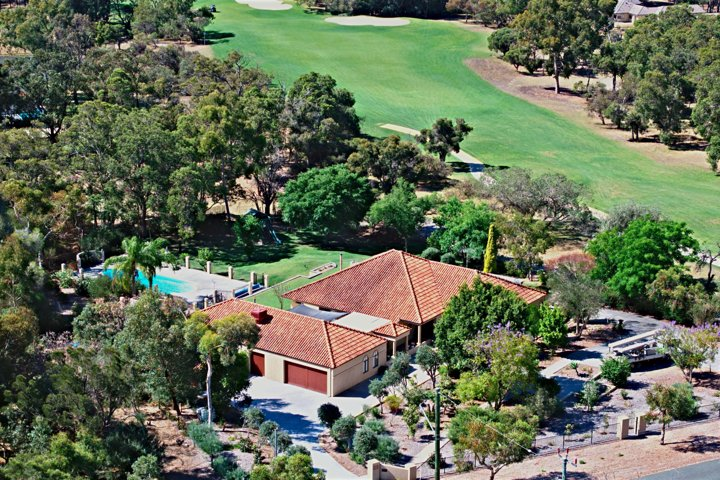
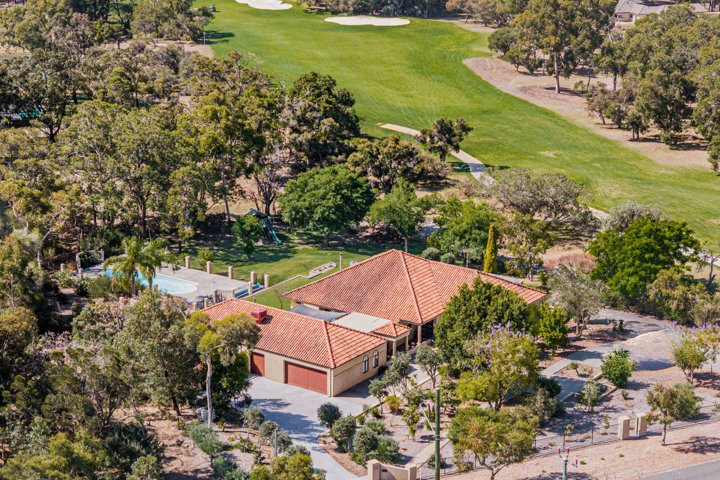
29 Hermitage reshoot: use editing team's revised edits, boundary refitted, no pins
Claude-Session: https://claude.ai/code/session_016Dz5F9bg2qyiekL9JCs1yM

diff --git a/aerials/03-nov-2026/index.html b/aerials/03-nov-2026/index.html
@@ -5,4 +5,4 @@ body{margin:0;background:var(--bg);color:var(--fg);font:15px/1.45 system-ui,-app
 header,section{max-width:1400px;margin:auto;padding:18px 16px}h1{font-size:20px;margin:0}h2{font-size:17px;margin:0}header p,section p{color:var(--mut);margin:4px 0 0}
 .ed{margin-left:10px;color:var(--acc);font-weight:600;text-decoration:none}a{color:var(--acc)}
 .chk{margin-top:10px}.chk summary{cursor:pointer;color:var(--mut);font-weight:600}.chk iframe{width:100%;height:420px;border:0;border-radius:6px;margin-top:6px;background:#111}.g{display:grid;grid-template-columns:repeat(auto-fill,minmax(280px,1fr));gap:8px;margin-top:10px}.g img{width:100%;display:block;border-radius:4px}</style></head>
-<body><header><h1>Drone edits — Tue 3 Nov 2026</h1><p>Tap a photo for full size. <b>Edit</b> opens the job in the <a href="/pins/">editor</a> with all its pins and settings.</p></header><section><h2>9 Flora Ave, Bayswater WA 6053</h2><p>Nic Pulvirenti · Professionals TWT · 10 photos (top-downs first) <a class="ed" href="/pins/?open=03-nov-2026/9_flora_ave">Edit</a><a class="ed" href="/lots/?img=/aerials/03-nov-2026/9_flora_ave/src/dji_fly_20261103_134902_0154_1793704059788_photo_r180.jpg&street=Flora%20Avenue" target="_blank">Lots</a><a class="ed" href="9_flora_ave/check.html" target="_blank">Check map</a></p><div class="g"><a href="9_flora_ave/9_flora_ave_potential_lots.jpg" target="_blank"><img loading="lazy" src="9_flora_ave/t/9_flora_ave_potential_lots.jpg" alt="Potential 2 lots"></a><a href="9_flora_ave/dji_fly_20261103_134902_0154_1793704059788_photo_r180.jpg?v=1793738739" target="_blank"><img loading="lazy" src="9_flora_ave/t/dji_fly_20261103_134902_0154_1793704059788_photo_r180.jpg?v=1793738739" alt=""></a><a href="9_flora_ave/dji_fly_20261103_134846_0153_1793704060458_photo.jpg?v=1793738739" target="_blank"><img loading="lazy" src="9_flora_ave/t/dji_fly_20261103_134846_0153_1793704060458_photo.jpg?v=1793738739" alt=""></a><a href="9_flora_ave/dji_fly_20261103_134944_0155_1793704059138_photo.jpg?v=1793738739" target="_blank"><img loading="lazy" src="9_flora_ave/t/dji_fly_20261103_134944_0155_1793704059138_photo.jpg?v=1793738739" alt=""></a><a href="9_flora_ave/dji_fly_20261103_135010_0156_1793704058395_photo.jpg?v=1793738739" target="_blank"><img loading="lazy" src="9_flora_ave/t/dji_fly_20261103_135010_0156_1793704058395_photo.jpg?v=1793738739" alt=""></a><a href="9_flora_ave/dji_fly_20261103_135034_0157_1793704057626_photo.jpg?v=1793738739" target="_blank"><img loading="lazy" src="9_flora_ave/t/dji_fly_20261103_135034_0157_1793704057626_photo.jpg?v=1793738739" alt=""></a><a href="9_flora_ave/dji_fly_20261103_135056_0158_1793704056929_photo.jpg?v=1793738739" target="_blank"><img loading="lazy" src="9_flora_ave/t/dji_fly_20261103_135056_0158_1793704056929_photo.jpg?v=1793738739" alt=""></a><a href="9_flora_ave/dji_fly_20261103_135130_0159_1793704056232_photo.jpg?v=1793738739" target="_blank"><img loading="lazy" src="9_flora_ave/t/dji_fly_20261103_135130_0159_1793704056232_photo.jpg?v=1793738739" alt=""></a><a href="9_flora_ave/dji_fly_20261103_135156_0160_1793704055554_photo.jpg?v=1793738739" target="_blank"><img loading="lazy" src="9_flora_ave/t/dji_fly_20261103_135156_0160_1793704055554_photo.jpg?v=1793738739" alt=""></a><a href="9_flora_ave/dji_fly_20261103_135226_0161_1793704054720_photo.jpg?v=1793738739" target="_blank"><img loading="lazy" src="9_flora_ave/t/dji_fly_20261103_135226_0161_1793704054720_photo.jpg?v=1793738739" alt=""></a><a href="9_flora_ave/dji_fly_20261103_135250_0162_1793704053535_photo.jpg?v=1793738739" target="_blank"><img loading="lazy" src="9_flora_ave/t/dji_fly_20261103_135250_0162_1793704053535_photo.jpg?v=1793738739" alt=""></a></div><details class="chk" open><summary>Quick check — boundary + 15 pinned places</summary><iframe loading="lazy" src="9_flora_ave/check.html?v=1793738740" title="Boundary and places check"></iframe></details></section><section><h2>SEND TO EDITOR — sun-facing aerials 0165/0168/0171/0172 have a white haze band on the horizon and the CBD towers in 0168 are ghosted · 1 Mills Ave, Bayswater WA 6053</h2><p>Nic Pulvirenti · Professionals TWT · 10 photos (top-downs first) <a class="ed" href="/pins/?open=03-nov-2026/1_mills_ave">Edit</a><a class="ed" href="/lots/?img=/aerials/03-nov-2026/1_mills_ave/src/dji_fly_20261103_172728_0163_1793704052722_photo_r270.jpg&street=Mills%20Avenue" target="_blank">Lots</a><a class="ed" href="1_mills_ave/check.html" target="_blank">Check map</a></p><div class="g"><a href="1_mills_ave/dji_fly_20261103_172728_0163_1793704052722_photo_r270.jpg?v=1793738746" target="_blank"><img loading="lazy" src="1_mills_ave/t/dji_fly_20261103_172728_0163_1793704052722_photo_r270.jpg?v=1793738746" alt=""></a><a href="1_mills_ave/dji_fly_20261103_172806_0164_1793704051892_photo_r180.jpg?v=1793738746" target="_blank"><img loading="lazy" src="1_mills_ave/t/dji_fly_20261103_172806_0164_1793704051892_photo_r180.jpg?v=1793738746" alt=""></a><a href="1_mills_ave/dji_fly_20261103_172846_0165_1793704051117_photo.jpg?v=1793738746" target="_blank"><img loading="lazy" src="1_mills_ave/t/dji_fly_20261103_172846_0165_1793704051117_photo.jpg?v=1793738746" alt=""></a><a href="1_mills_ave/dji_fly_20261103_172926_0166_1793704050054_photo.jpg?v=1793738746" target="_blank"><img loading="lazy" src="1_mills_ave/t/dji_fly_20261103_172926_0166_1793704050054_photo.jpg?v=1793738746" alt=""></a><a href="1_mills_ave/dji_fly_20261103_173000_0167_1793704048747_photo.jpg?v=1793738746" target="_blank"><img loading="lazy" src="1_mills_ave/t/dji_fly_20261103_173000_0167_1793704048747_photo.jpg?v=1793738746" alt=""></a><a href="1_mills_ave/dji_fly_20261103_173028_0168_1793704047325_photo.jpg?v=1793738746" target="_blank"><img loading="lazy" src="1_mills_ave/t/dji_fly_20261103_173028_0168_1793704047325_photo.jpg?v=1793738746" alt=""></a><a href="1_mills_ave/dji_fly_20261103_173056_0169_1793704045824_photo.jpg?v=1793738746" target="_blank"><img loading="lazy" src="1_mills_ave/t/dji_fly_20261103_173056_0169_1793704045824_photo.jpg?v=1793738746" alt=""></a><a href="1_mills_ave/dji_fly_20261103_173128_0170_1793704044668_photo.jpg?v=1793738746" target="_blank"><img loading="lazy" src="1_mills_ave/t/dji_fly_20261103_173128_0170_1793704044668_photo.jpg?v=1793738746" alt=""></a><a href="1_mills_ave/dji_fly_20261103_173156_0171_1793704043395_photo.jpg?v=1793738746" target="_blank"><img loading="lazy" src="1_mills_ave/t/dji_fly_20261103_173156_0171_1793704043395_photo.jpg?v=1793738746" alt=""></a><a href="1_mills_ave/dji_fly_20261103_173232_0172_1793704041907_photo.jpg?v=1793738746" target="_blank"><img loading="lazy" src="1_mills_ave/t/dji_fly_20261103_173232_0172_1793704041907_photo.jpg?v=1793738746" alt=""></a></div><details class="chk" open><summary>Quick check — boundary + 16 pinned places</summary><iframe loading="lazy" src="1_mills_ave/check.html?v=1793738748" title="Boundary and places check"></iframe></details></section><section><h2>SEND TO EDITOR — no lot boundary · 17 Titanium Blvd, Cockburn Central WA 6164</h2><p>Amelié Blanco Bernabeu · Raspa · 10 photos (top-downs first) <a class="ed" href="/pins/?open=03-nov-2026/17_titanium_blvd">Edit</a><a class="ed" href="/lots/?img=/aerials/03-nov-2026/17_titanium_blvd/src/dji_fly_20261103_114026_0971_1793704935082_photo_r90.jpg&street=Titanium%20Blvd" target="_blank">Lots</a><a class="ed" href="17_titanium_blvd/check.html" target="_blank">Check map</a></p><div class="g"><a href="17_titanium_blvd/dji_fly_20261103_114026_0971_1793704935082_photo_r90.jpg?v=1793738755" target="_blank"><img loading="lazy" src="17_titanium_blvd/t/dji_fly_20261103_114026_0971_1793704935082_photo_r90.jpg?v=1793738755" alt=""></a><a href="17_titanium_blvd/dji_fly_20261103_113914_0966_1793704941294_photo.jpg?v=1793738755" target="_blank"><img loading="lazy" src="17_titanium_blvd/t/dji_fly_20261103_113914_0966_1793704941294_photo.jpg?v=1793738755" alt=""></a><a href="17_titanium_blvd/dji_fly_20261103_114050_0972_1793704933836_photo.jpg?v=1793738755" target="_blank"><img loading="lazy" src="17_titanium_blvd/t/dji_fly_20261103_114050_0972_1793704933836_photo.jpg?v=1793738755" alt=""></a><a href="17_titanium_blvd/dji_fly_20261103_114104_0973_1793704932587_photo.jpg?v=1793738755" target="_blank"><img loading="lazy" src="17_titanium_blvd/t/dji_fly_20261103_114104_0973_1793704932587_photo.jpg?v=1793738755" alt=""></a><a href="17_titanium_blvd/dji_fly_20261103_114132_0974_1793704931230_photo.jpg?v=1793738755" target="_blank"><img loading="lazy" src="17_titanium_blvd/t/dji_fly_20261103_114132_0974_1793704931230_photo.jpg?v=1793738755" alt=""></a><a href="17_titanium_blvd/dji_fly_20261103_114226_0975_1793704929941_photo.jpg?v=1793738755" target="_blank"><img loading="lazy" src="17_titanium_blvd/t/dji_fly_20261103_114226_0975_1793704929941_photo.jpg?v=1793738755" alt=""></a><a href="17_titanium_blvd/dji_fly_20261103_114250_0976_1793704928621_photo.jpg?v=1793738755" target="_blank"><img loading="lazy" src="17_titanium_blvd/t/dji_fly_20261103_114250_0976_1793704928621_photo.jpg?v=1793738755" alt=""></a><a href="17_titanium_blvd/dji_fly_20261103_114306_0977_1793704927328_photo.jpg?v=1793738755" target="_blank"><img loading="lazy" src="17_titanium_blvd/t/dji_fly_20261103_114306_0977_1793704927328_photo.jpg?v=1793738755" alt=""></a><a href="17_titanium_blvd/dji_fly_20261103_114318_0978_1793704926019_photo.jpg?v=1793738755" target="_blank"><img loading="lazy" src="17_titanium_blvd/t/dji_fly_20261103_114318_0978_1793704926019_photo.jpg?v=1793738755" alt=""></a><a href="17_titanium_blvd/dji_fly_20261103_114330_0979_1793704924754_photo.jpg?v=1793738755" target="_blank"><img loading="lazy" src="17_titanium_blvd/t/dji_fly_20261103_114330_0979_1793704924754_photo.jpg?v=1793738755" alt=""></a></div><details class="chk" open><summary>Quick check — boundary + 15 pinned places</summary><iframe loading="lazy" src="17_titanium_blvd/check.html?v=1793738758" title="Boundary and places check"></iframe></details></section><section><h2>19 Joondanna Dr, Joondanna WA 6060</h2><p>Dante Holdsworth · Holdsworth · 10 photos (top-downs first) <a class="ed" href="/pins/?open=03-nov-2026/19_joondanna_dr">Edit</a><a class="ed" href="/lots/?img=/aerials/03-nov-2026/19_joondanna_dr/src/dji_fly_20261103_171736_0982_1793704919527_photo.jpg&street=Joondanna%20Drive" target="_blank">Lots</a><a class="ed" href="19_joondanna_dr/check.html" target="_blank">Check map</a></p><div class="g"><a href="19_joondanna_dr/dji_fly_20261103_171736_0982_1793704919527_photo.jpg?v=1793738765" target="_blank"><img loading="lazy" src="19_joondanna_dr/t/dji_fly_20261103_171736_0982_1793704919527_photo.jpg?v=1793738765" alt=""></a><a href="19_joondanna_dr/dji_fly_20261103_171724_0981_1793704921863_photo.jpg?v=1793738765" target="_blank"><img loading="lazy" src="19_joondanna_dr/t/dji_fly_20261103_171724_0981_1793704921863_photo.jpg?v=1793738765" alt=""></a><a href="19_joondanna_dr/dji_fly_20261103_171826_0983_1793704918083_photo.jpg?v=1793738765" target="_blank"><img loading="lazy" src="19_joondanna_dr/t/dji_fly_20261103_171826_0983_1793704918083_photo.jpg?v=1793738765" alt=""></a><a href="19_joondanna_dr/dji_fly_20261103_171840_0984_1793704916672_photo.jpg?v=1793738765" target="_blank"><img loading="lazy" src="19_joondanna_dr/t/dji_fly_20261103_171840_0984_1793704916672_photo.jpg?v=1793738765" alt=""></a><a href="19_joondanna_dr/dji_fly_20261103_171854_0985_1793704915183_photo.jpg?v=1793738765" target="_blank"><img loading="lazy" src="19_joondanna_dr/t/dji_fly_20261103_171854_0985_1793704915183_photo.jpg?v=1793738765" alt=""></a><a href="19_joondanna_dr/dji_fly_20261103_171906_0986_1793704913711_photo.jpg?v=1793738765" target="_blank"><img loading="lazy" src="19_joondanna_dr/t/dji_fly_20261103_171906_0986_1793704913711_photo.jpg?v=1793738765" alt=""></a><a href="19_joondanna_dr/dji_fly_20261103_171930_0987_1793704912295_photo.jpg?v=1793738765" target="_blank"><img loading="lazy" src="19_joondanna_dr/t/dji_fly_20261103_171930_0987_1793704912295_photo.jpg?v=1793738765" alt=""></a><a href="19_joondanna_dr/dji_fly_20261103_172004_0988_1793704910986_photo.jpg?v=1793738765" target="_blank"><img loading="lazy" src="19_joondanna_dr/t/dji_fly_20261103_172004_0988_1793704910986_photo.jpg?v=1793738765" alt=""></a><a href="19_joondanna_dr/dji_fly_20261103_172024_0989_1793704909586_photo.jpg?v=1793738765" target="_blank"><img loading="lazy" src="19_joondanna_dr/t/dji_fly_20261103_172024_0989_1793704909586_photo.jpg?v=1793738765" alt=""></a><a href="19_joondanna_dr/dji_fly_20261103_172042_0990_1793704908080_photo.jpg?v=1793738765" target="_blank"><img loading="lazy" src="19_joondanna_dr/t/dji_fly_20261103_172042_0990_1793704908080_photo.jpg?v=1793738765" alt=""></a></div><details class="chk" open><summary>Quick check — boundary + 19 pinned places</summary><iframe loading="lazy" src="19_joondanna_dr/check.html?v=1793738767" title="Boundary and places check"></iframe></details></section><section><h2>29 Hermitage Dr, The Vines WA 6069 — day reshoot 7 Nov 2026 (natural sky)</h2><p>Annique Woodford · Granger Clark · 5 photos (top-downs first) <a class="ed" href="/pins/?open=03-nov-2026/29_hermitage_dr">Edit</a><a class="ed" href="/lots/?img=/aerials/03-nov-2026/29_hermitage_dr/src/DJI_20261107175758_0060_D.jpg&street=Hermitage%20Drive" target="_blank">Lots</a><a class="ed" href="29_hermitage_dr/check.html" target="_blank">Check map</a></p><div class="g"><a href="29_hermitage_dr/DJI_20261107175758_0060_D.jpg?v=1794172109" target="_blank"><img loading="lazy" src="29_hermitage_dr/t/DJI_20261107175758_0060_D.jpg?v=1794172109" alt=""></a><a href="29_hermitage_dr/DJI_20261107175744_0059_D.jpg?v=1794172109" target="_blank"><img loading="lazy" src="29_hermitage_dr/t/DJI_20261107175744_0059_D.jpg?v=1794172109" alt=""></a><a href="29_hermitage_dr/DJI_20261107175429_0054_D.jpg?v=1794172109" target="_blank"><img loading="lazy" src="29_hermitage_dr/t/DJI_20261107175429_0054_D.jpg?v=1794172109" alt=""></a><a href="29_hermitage_dr/DJI_20261107175657_0057_D.jpg?v=1794172109" target="_blank"><img loading="lazy" src="29_hermitage_dr/t/DJI_20261107175657_0057_D.jpg?v=1794172109" alt=""></a><a href="29_hermitage_dr/DJI_20261107180236_0070_D.jpg?v=1794172109" target="_blank"><img loading="lazy" src="29_hermitage_dr/t/DJI_20261107180236_0070_D.jpg?v=1794172109" alt=""></a></div><details class="chk" open><summary>Quick check — boundary + 8 pinned places</summary><iframe loading="lazy" src="29_hermitage_dr/check.html?v=1793738770" title="Boundary and places check"></iframe></details></section><section><h2>SEND TO EDITOR — twilight frames · 29 Hermitage Dr, The Vines WA 6069</h2><p>Annique Woodford · Granger Clark · 2 photos <a class="ed" href="/pins/?open=03-nov-2026/29_hermitage_dr_twilight">Edit</a><a class="ed" href="/lots/?img=/aerials/03-nov-2026/29_hermitage_dr_twilight/src/DJI_20261103194003_0205_D.jpg&street=Hermitage%20Drive" target="_blank">Lots</a><a class="ed" href="29_hermitage_dr_twilight/check.html" target="_blank">Check map</a></p><div class="g"><a href="29_hermitage_dr_twilight/DJI_20261103194003_0205_D.jpg?v=1793738770" target="_blank"><img loading="lazy" src="29_hermitage_dr_twilight/t/DJI_20261103194003_0205_D.jpg?v=1793738770" alt=""></a><a href="29_hermitage_dr_twilight/DJI_20261103194018_0206_D.jpg?v=1793738770" target="_blank"><img loading="lazy" src="29_hermitage_dr_twilight/t/DJI_20261103194018_0206_D.jpg?v=1793738770" alt=""></a></div><details class="chk" open><summary>Quick check — boundary + 5 pinned places</summary><iframe loading="lazy" src="29_hermitage_dr_twilight/check.html?v=1793738771" title="Boundary and places check"></iframe></details></section><script src="../dl.js"></script></body></html>
+<body><header><h1>Drone edits — Tue 3 Nov 2026</h1><p>Tap a photo for full size. <b>Edit</b> opens the job in the <a href="/pins/">editor</a> with all its pins and settings.</p></header><section><h2>9 Flora Ave, Bayswater WA 6053</h2><p>Nic Pulvirenti · Professionals TWT · 10 photos (top-downs first) <a class="ed" href="/pins/?open=03-nov-2026/9_flora_ave">Edit</a><a class="ed" href="/lots/?img=/aerials/03-nov-2026/9_flora_ave/src/dji_fly_20261103_134902_0154_1793704059788_photo_r180.jpg&street=Flora%20Avenue" target="_blank">Lots</a><a class="ed" href="9_flora_ave/check.html" target="_blank">Check map</a></p><div class="g"><a href="9_flora_ave/9_flora_ave_potential_lots.jpg" target="_blank"><img loading="lazy" src="9_flora_ave/t/9_flora_ave_potential_lots.jpg" alt="Potential 2 lots"></a><a href="9_flora_ave/dji_fly_20261103_134902_0154_1793704059788_photo_r180.jpg?v=1793738739" target="_blank"><img loading="lazy" src="9_flora_ave/t/dji_fly_20261103_134902_0154_1793704059788_photo_r180.jpg?v=1793738739" alt=""></a><a href="9_flora_ave/dji_fly_20261103_134846_0153_1793704060458_photo.jpg?v=1793738739" target="_blank"><img loading="lazy" src="9_flora_ave/t/dji_fly_20261103_134846_0153_1793704060458_photo.jpg?v=1793738739" alt=""></a><a href="9_flora_ave/dji_fly_20261103_134944_0155_1793704059138_photo.jpg?v=1793738739" target="_blank"><img loading="lazy" src="9_flora_ave/t/dji_fly_20261103_134944_0155_1793704059138_photo.jpg?v=1793738739" alt=""></a><a href="9_flora_ave/dji_fly_20261103_135010_0156_1793704058395_photo.jpg?v=1793738739" target="_blank"><img loading="lazy" src="9_flora_ave/t/dji_fly_20261103_135010_0156_1793704058395_photo.jpg?v=1793738739" alt=""></a><a href="9_flora_ave/dji_fly_20261103_135034_0157_1793704057626_photo.jpg?v=1793738739" target="_blank"><img loading="lazy" src="9_flora_ave/t/dji_fly_20261103_135034_0157_1793704057626_photo.jpg?v=1793738739" alt=""></a><a href="9_flora_ave/dji_fly_20261103_135056_0158_1793704056929_photo.jpg?v=1793738739" target="_blank"><img loading="lazy" src="9_flora_ave/t/dji_fly_20261103_135056_0158_1793704056929_photo.jpg?v=1793738739" alt=""></a><a href="9_flora_ave/dji_fly_20261103_135130_0159_1793704056232_photo.jpg?v=1793738739" target="_blank"><img loading="lazy" src="9_flora_ave/t/dji_fly_20261103_135130_0159_1793704056232_photo.jpg?v=1793738739" alt=""></a><a href="9_flora_ave/dji_fly_20261103_135156_0160_1793704055554_photo.jpg?v=1793738739" target="_blank"><img loading="lazy" src="9_flora_ave/t/dji_fly_20261103_135156_0160_1793704055554_photo.jpg?v=1793738739" alt=""></a><a href="9_flora_ave/dji_fly_20261103_135226_0161_1793704054720_photo.jpg?v=1793738739" target="_blank"><img loading="lazy" src="9_flora_ave/t/dji_fly_20261103_135226_0161_1793704054720_photo.jpg?v=1793738739" alt=""></a><a href="9_flora_ave/dji_fly_20261103_135250_0162_1793704053535_photo.jpg?v=1793738739" target="_blank"><img loading="lazy" src="9_flora_ave/t/dji_fly_20261103_135250_0162_1793704053535_photo.jpg?v=1793738739" alt=""></a></div><details class="chk" open><summary>Quick check — boundary + 15 pinned places</summary><iframe loading="lazy" src="9_flora_ave/check.html?v=1793738740" title="Boundary and places check"></iframe></details></section><section><h2>SEND TO EDITOR — sun-facing aerials 0165/0168/0171/0172 have a white haze band on the horizon and the CBD towers in 0168 are ghosted · 1 Mills Ave, Bayswater WA 6053</h2><p>Nic Pulvirenti · Professionals TWT · 10 photos (top-downs first) <a class="ed" href="/pins/?open=03-nov-2026/1_mills_ave">Edit</a><a class="ed" href="/lots/?img=/aerials/03-nov-2026/1_mills_ave/src/dji_fly_20261103_172728_0163_1793704052722_photo_r270.jpg&street=Mills%20Avenue" target="_blank">Lots</a><a class="ed" href="1_mills_ave/check.html" target="_blank">Check map</a></p><div class="g"><a href="1_mills_ave/dji_fly_20261103_172728_0163_1793704052722_photo_r270.jpg?v=1793738746" target="_blank"><img loading="lazy" src="1_mills_ave/t/dji_fly_20261103_172728_0163_1793704052722_photo_r270.jpg?v=1793738746" alt=""></a><a href="1_mills_ave/dji_fly_20261103_172806_0164_1793704051892_photo_r180.jpg?v=1793738746" target="_blank"><img loading="lazy" src="1_mills_ave/t/dji_fly_20261103_172806_0164_1793704051892_photo_r180.jpg?v=1793738746" alt=""></a><a href="1_mills_ave/dji_fly_20261103_172846_0165_1793704051117_photo.jpg?v=1793738746" target="_blank"><img loading="lazy" src="1_mills_ave/t/dji_fly_20261103_172846_0165_1793704051117_photo.jpg?v=1793738746" alt=""></a><a href="1_mills_ave/dji_fly_20261103_172926_0166_1793704050054_photo.jpg?v=1793738746" target="_blank"><img loading="lazy" src="1_mills_ave/t/dji_fly_20261103_172926_0166_1793704050054_photo.jpg?v=1793738746" alt=""></a><a href="1_mills_ave/dji_fly_20261103_173000_0167_1793704048747_photo.jpg?v=1793738746" target="_blank"><img loading="lazy" src="1_mills_ave/t/dji_fly_20261103_173000_0167_1793704048747_photo.jpg?v=1793738746" alt=""></a><a href="1_mills_ave/dji_fly_20261103_173028_0168_1793704047325_photo.jpg?v=1793738746" target="_blank"><img loading="lazy" src="1_mills_ave/t/dji_fly_20261103_173028_0168_1793704047325_photo.jpg?v=1793738746" alt=""></a><a href="1_mills_ave/dji_fly_20261103_173056_0169_1793704045824_photo.jpg?v=1793738746" target="_blank"><img loading="lazy" src="1_mills_ave/t/dji_fly_20261103_173056_0169_1793704045824_photo.jpg?v=1793738746" alt=""></a><a href="1_mills_ave/dji_fly_20261103_173128_0170_1793704044668_photo.jpg?v=1793738746" target="_blank"><img loading="lazy" src="1_mills_ave/t/dji_fly_20261103_173128_0170_1793704044668_photo.jpg?v=1793738746" alt=""></a><a href="1_mills_ave/dji_fly_20261103_173156_0171_1793704043395_photo.jpg?v=1793738746" target="_blank"><img loading="lazy" src="1_mills_ave/t/dji_fly_20261103_173156_0171_1793704043395_photo.jpg?v=1793738746" alt=""></a><a href="1_mills_ave/dji_fly_20261103_173232_0172_1793704041907_photo.jpg?v=1793738746" target="_blank"><img loading="lazy" src="1_mills_ave/t/dji_fly_20261103_173232_0172_1793704041907_photo.jpg?v=1793738746" alt=""></a></div><details class="chk" open><summary>Quick check — boundary + 16 pinned places</summary><iframe loading="lazy" src="1_mills_ave/check.html?v=1793738748" title="Boundary and places check"></iframe></details></section><section><h2>SEND TO EDITOR — no lot boundary · 17 Titanium Blvd, Cockburn Central WA 6164</h2><p>Amelié Blanco Bernabeu · Raspa · 10 photos (top-downs first) <a class="ed" href="/pins/?open=03-nov-2026/17_titanium_blvd">Edit</a><a class="ed" href="/lots/?img=/aerials/03-nov-2026/17_titanium_blvd/src/dji_fly_20261103_114026_0971_1793704935082_photo_r90.jpg&street=Titanium%20Blvd" target="_blank">Lots</a><a class="ed" href="17_titanium_blvd/check.html" target="_blank">Check map</a></p><div class="g"><a href="17_titanium_blvd/dji_fly_20261103_114026_0971_1793704935082_photo_r90.jpg?v=1793738755" target="_blank"><img loading="lazy" src="17_titanium_blvd/t/dji_fly_20261103_114026_0971_1793704935082_photo_r90.jpg?v=1793738755" alt=""></a><a href="17_titanium_blvd/dji_fly_20261103_113914_0966_1793704941294_photo.jpg?v=1793738755" target="_blank"><img loading="lazy" src="17_titanium_blvd/t/dji_fly_20261103_113914_0966_1793704941294_photo.jpg?v=1793738755" alt=""></a><a href="17_titanium_blvd/dji_fly_20261103_114050_0972_1793704933836_photo.jpg?v=1793738755" target="_blank"><img loading="lazy" src="17_titanium_blvd/t/dji_fly_20261103_114050_0972_1793704933836_photo.jpg?v=1793738755" alt=""></a><a href="17_titanium_blvd/dji_fly_20261103_114104_0973_1793704932587_photo.jpg?v=1793738755" target="_blank"><img loading="lazy" src="17_titanium_blvd/t/dji_fly_20261103_114104_0973_1793704932587_photo.jpg?v=1793738755" alt=""></a><a href="17_titanium_blvd/dji_fly_20261103_114132_0974_1793704931230_photo.jpg?v=1793738755" target="_blank"><img loading="lazy" src="17_titanium_blvd/t/dji_fly_20261103_114132_0974_1793704931230_photo.jpg?v=1793738755" alt=""></a><a href="17_titanium_blvd/dji_fly_20261103_114226_0975_1793704929941_photo.jpg?v=1793738755" target="_blank"><img loading="lazy" src="17_titanium_blvd/t/dji_fly_20261103_114226_0975_1793704929941_photo.jpg?v=1793738755" alt=""></a><a href="17_titanium_blvd/dji_fly_20261103_114250_0976_1793704928621_photo.jpg?v=1793738755" target="_blank"><img loading="lazy" src="17_titanium_blvd/t/dji_fly_20261103_114250_0976_1793704928621_photo.jpg?v=1793738755" alt=""></a><a href="17_titanium_blvd/dji_fly_20261103_114306_0977_1793704927328_photo.jpg?v=1793738755" target="_blank"><img loading="lazy" src="17_titanium_blvd/t/dji_fly_20261103_114306_0977_1793704927328_photo.jpg?v=1793738755" alt=""></a><a href="17_titanium_blvd/dji_fly_20261103_114318_0978_1793704926019_photo.jpg?v=1793738755" target="_blank"><img loading="lazy" src="17_titanium_blvd/t/dji_fly_20261103_114318_0978_1793704926019_photo.jpg?v=1793738755" alt=""></a><a href="17_titanium_blvd/dji_fly_20261103_114330_0979_1793704924754_photo.jpg?v=1793738755" target="_blank"><img loading="lazy" src="17_titanium_blvd/t/dji_fly_20261103_114330_0979_1793704924754_photo.jpg?v=1793738755" alt=""></a></div><details class="chk" open><summary>Quick check — boundary + 15 pinned places</summary><iframe loading="lazy" src="17_titanium_blvd/check.html?v=1793738758" title="Boundary and places check"></iframe></details></section><section><h2>19 Joondanna Dr, Joondanna WA 6060</h2><p>Dante Holdsworth · Holdsworth · 10 photos (top-downs first) <a class="ed" href="/pins/?open=03-nov-2026/19_joondanna_dr">Edit</a><a class="ed" href="/lots/?img=/aerials/03-nov-2026/19_joondanna_dr/src/dji_fly_20261103_171736_0982_1793704919527_photo.jpg&street=Joondanna%20Drive" target="_blank">Lots</a><a class="ed" href="19_joondanna_dr/check.html" target="_blank">Check map</a></p><div class="g"><a href="19_joondanna_dr/dji_fly_20261103_171736_0982_1793704919527_photo.jpg?v=1793738765" target="_blank"><img loading="lazy" src="19_joondanna_dr/t/dji_fly_20261103_171736_0982_1793704919527_photo.jpg?v=1793738765" alt=""></a><a href="19_joondanna_dr/dji_fly_20261103_171724_0981_1793704921863_photo.jpg?v=1793738765" target="_blank"><img loading="lazy" src="19_joondanna_dr/t/dji_fly_20261103_171724_0981_1793704921863_photo.jpg?v=1793738765" alt=""></a><a href="19_joondanna_dr/dji_fly_20261103_171826_0983_1793704918083_photo.jpg?v=1793738765" target="_blank"><img loading="lazy" src="19_joondanna_dr/t/dji_fly_20261103_171826_0983_1793704918083_photo.jpg?v=1793738765" alt=""></a><a href="19_joondanna_dr/dji_fly_20261103_171840_0984_1793704916672_photo.jpg?v=1793738765" target="_blank"><img loading="lazy" src="19_joondanna_dr/t/dji_fly_20261103_171840_0984_1793704916672_photo.jpg?v=1793738765" alt=""></a><a href="19_joondanna_dr/dji_fly_20261103_171854_0985_1793704915183_photo.jpg?v=1793738765" target="_blank"><img loading="lazy" src="19_joondanna_dr/t/dji_fly_20261103_171854_0985_1793704915183_photo.jpg?v=1793738765" alt=""></a><a href="19_joondanna_dr/dji_fly_20261103_171906_0986_1793704913711_photo.jpg?v=1793738765" target="_blank"><img loading="lazy" src="19_joondanna_dr/t/dji_fly_20261103_171906_0986_1793704913711_photo.jpg?v=1793738765" alt=""></a><a href="19_joondanna_dr/dji_fly_20261103_171930_0987_1793704912295_photo.jpg?v=1793738765" target="_blank"><img loading="lazy" src="19_joondanna_dr/t/dji_fly_20261103_171930_0987_1793704912295_photo.jpg?v=1793738765" alt=""></a><a href="19_joondanna_dr/dji_fly_20261103_172004_0988_1793704910986_photo.jpg?v=1793738765" target="_blank"><img loading="lazy" src="19_joondanna_dr/t/dji_fly_20261103_172004_0988_1793704910986_photo.jpg?v=1793738765" alt=""></a><a href="19_joondanna_dr/dji_fly_20261103_172024_0989_1793704909586_photo.jpg?v=1793738765" target="_blank"><img loading="lazy" src="19_joondanna_dr/t/dji_fly_20261103_172024_0989_1793704909586_photo.jpg?v=1793738765" alt=""></a><a href="19_joondanna_dr/dji_fly_20261103_172042_0990_1793704908080_photo.jpg?v=1793738765" target="_blank"><img loading="lazy" src="19_joondanna_dr/t/dji_fly_20261103_172042_0990_1793704908080_photo.jpg?v=1793738765" alt=""></a></div><details class="chk" open><summary>Quick check — boundary + 19 pinned places</summary><iframe loading="lazy" src="19_joondanna_dr/check.html?v=1793738767" title="Boundary and places check"></iframe></details></section><section><h2>29 Hermitage Dr, The Vines WA 6069 — day reshoot 7 Nov 2026 (editor revision, natural sky)</h2><p>Annique Woodford · Granger Clark · 5 photos (top-downs first) <a class="ed" href="/pins/?open=03-nov-2026/29_hermitage_dr">Edit</a><a class="ed" href="/lots/?img=/aerials/03-nov-2026/29_hermitage_dr/src/DJI_20261107175758_0060_D.jpg&street=Hermitage%20Drive" target="_blank">Lots</a><a class="ed" href="29_hermitage_dr/check.html" target="_blank">Check map</a></p><div class="g"><a href="29_hermitage_dr/DJI_20261107175758_0060_D.jpg?v=1794172347" target="_blank"><img loading="lazy" src="29_hermitage_dr/t/DJI_20261107175758_0060_D.jpg?v=1794172347" alt=""></a><a href="29_hermitage_dr/DJI_20261107175744_0059_D.jpg?v=1794172347" target="_blank"><img loading="lazy" src="29_hermitage_dr/t/DJI_20261107175744_0059_D.jpg?v=1794172347" alt=""></a><a href="29_hermitage_dr/DJI_20261107175429_0054_D.jpg?v=1794172347" target="_blank"><img loading="lazy" src="29_hermitage_dr/t/DJI_20261107175429_0054_D.jpg?v=1794172347" alt=""></a><a href="29_hermitage_dr/DJI_20261107175657_0057_D.jpg?v=1794172347" target="_blank"><img loading="lazy" src="29_hermitage_dr/t/DJI_20261107175657_0057_D.jpg?v=1794172347" alt=""></a><a href="29_hermitage_dr/DJI_20261107180236_0070_D.jpg?v=1794172347" target="_blank"><img loading="lazy" src="29_hermitage_dr/t/DJI_20261107180236_0070_D.jpg?v=1794172347" alt=""></a></div><details class="chk" open><summary>Quick check — boundary + 8 pinned places</summary><iframe loading="lazy" src="29_hermitage_dr/check.html?v=1793738770" title="Boundary and places check"></iframe></details></section><section><h2>SEND TO EDITOR — twilight frames · 29 Hermitage Dr, The Vines WA 6069</h2><p>Annique Woodford · Granger Clark · 2 photos <a class="ed" href="/pins/?open=03-nov-2026/29_hermitage_dr_twilight">Edit</a><a class="ed" href="/lots/?img=/aerials/03-nov-2026/29_hermitage_dr_twilight/src/DJI_20261103194003_0205_D.jpg&street=Hermitage%20Drive" target="_blank">Lots</a><a class="ed" href="29_hermitage_dr_twilight/check.html" target="_blank">Check map</a></p><div class="g"><a href="29_hermitage_dr_twilight/DJI_20261103194003_0205_D.jpg?v=1793738770" target="_blank"><img loading="lazy" src="29_hermitage_dr_twilight/t/DJI_20261103194003_0205_D.jpg?v=1793738770" alt=""></a><a href="29_hermitage_dr_twilight/DJI_20261103194018_0206_D.jpg?v=1793738770" target="_blank"><img loading="lazy" src="29_hermitage_dr_twilight/t/DJI_20261103194018_0206_D.jpg?v=1793738770" alt=""></a></div><details class="chk" open><summary>Quick check — boundary + 5 pinned places</summary><iframe loading="lazy" src="29_hermitage_dr_twilight/check.html?v=1793738771" title="Boundary and places check"></iframe></details></section><script src="../dl.js"></script></body></html>
